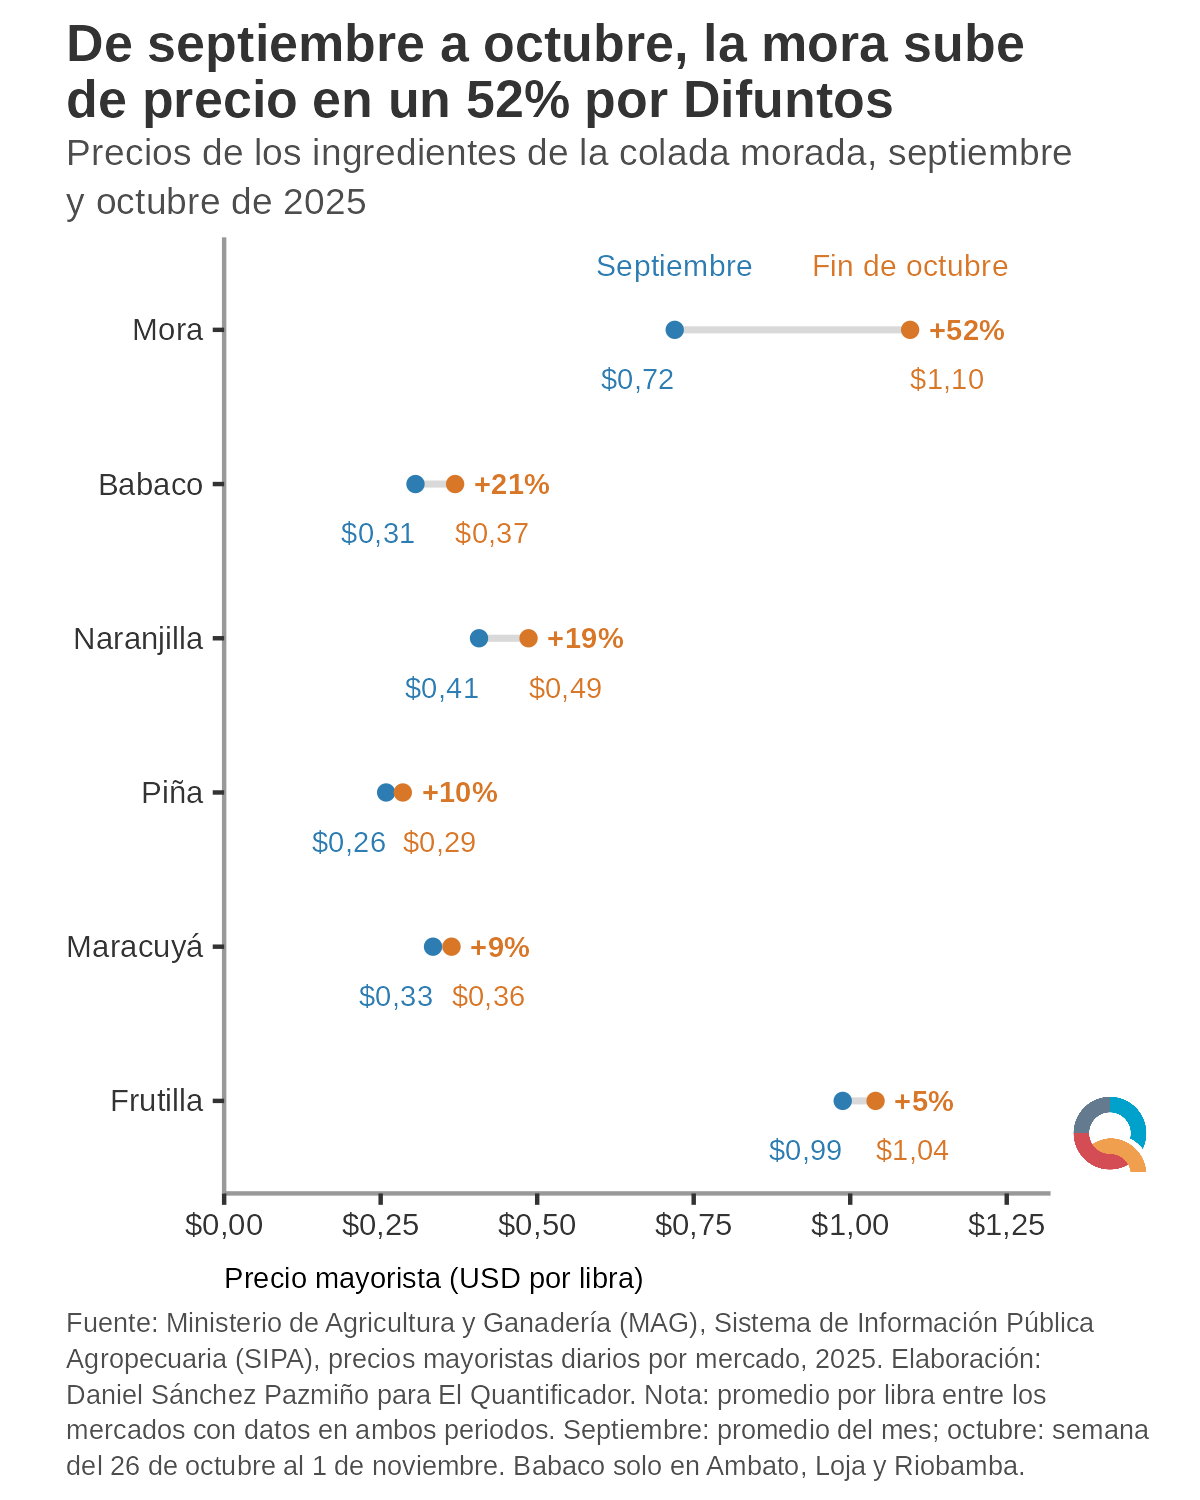
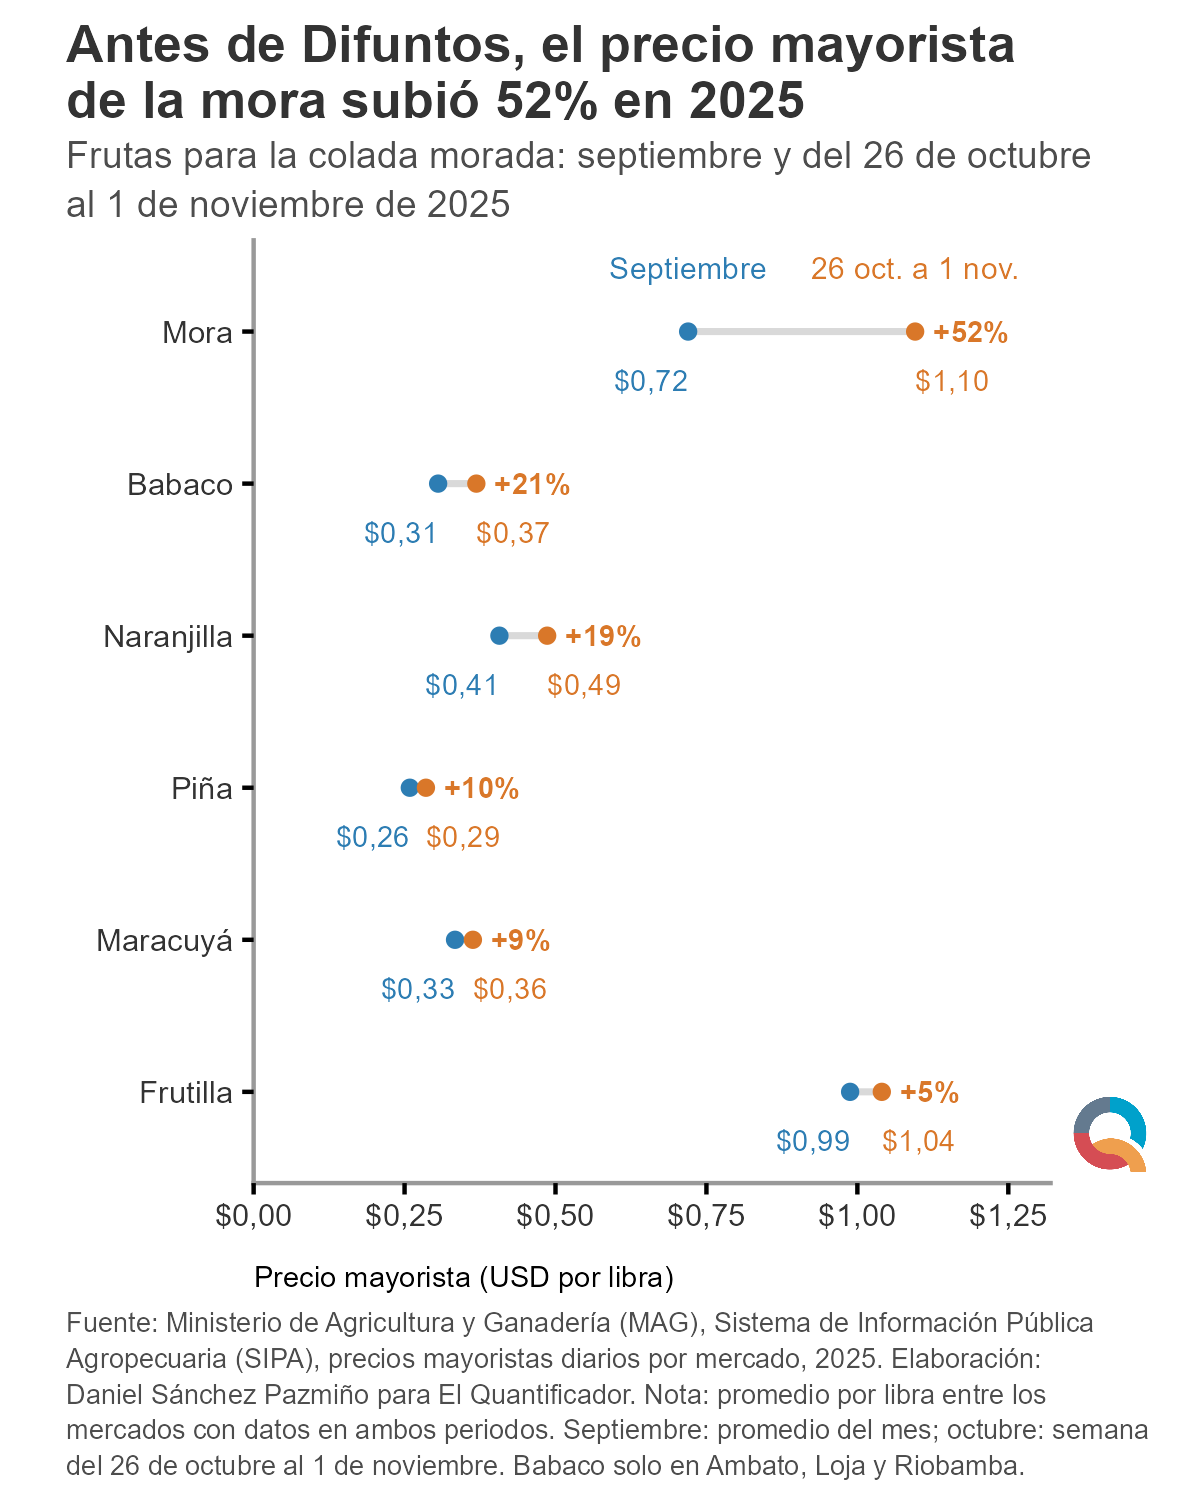
Correct colada fruit price chart image

diff --git a/README.md b/README.md
@@ -81,7 +81,7 @@ Los ultimos graficos y su estado son:
 - `50_mercado-laboral-pobreza-ecuador.png` (indicadores de mercado laboral y pobreza, ENEMDU 2026)
 - `51_balance-energetico-ecuador.png` (balance de fuentes y destinos del BNEE de ARCONEL, agosto de 2025 a julio de 2026)
 - `52_a_colada-hacer-comprar-ecuador.png` (costo por litro de colada morada hecha en casa y comprada en locales, octubre de 2026)
-- `52_b_sipa-colada-difuntos-ecuador.png` (precio mayorista por libra de las frutas de la colada morada, septiembre y semana del 26 de octubre al 1 de noviembre de 2025, SIPA; imagen pendiente de regenerar con el título corregido)
+- `52_b_sipa-colada-difuntos-ecuador.png` (precio mayorista por libra de las frutas de la colada morada, septiembre y semana del 26 de octubre al 1 de noviembre de 2025, SIPA)
 
 En preparacion (borradores sin numero hasta su publicacion):
 
